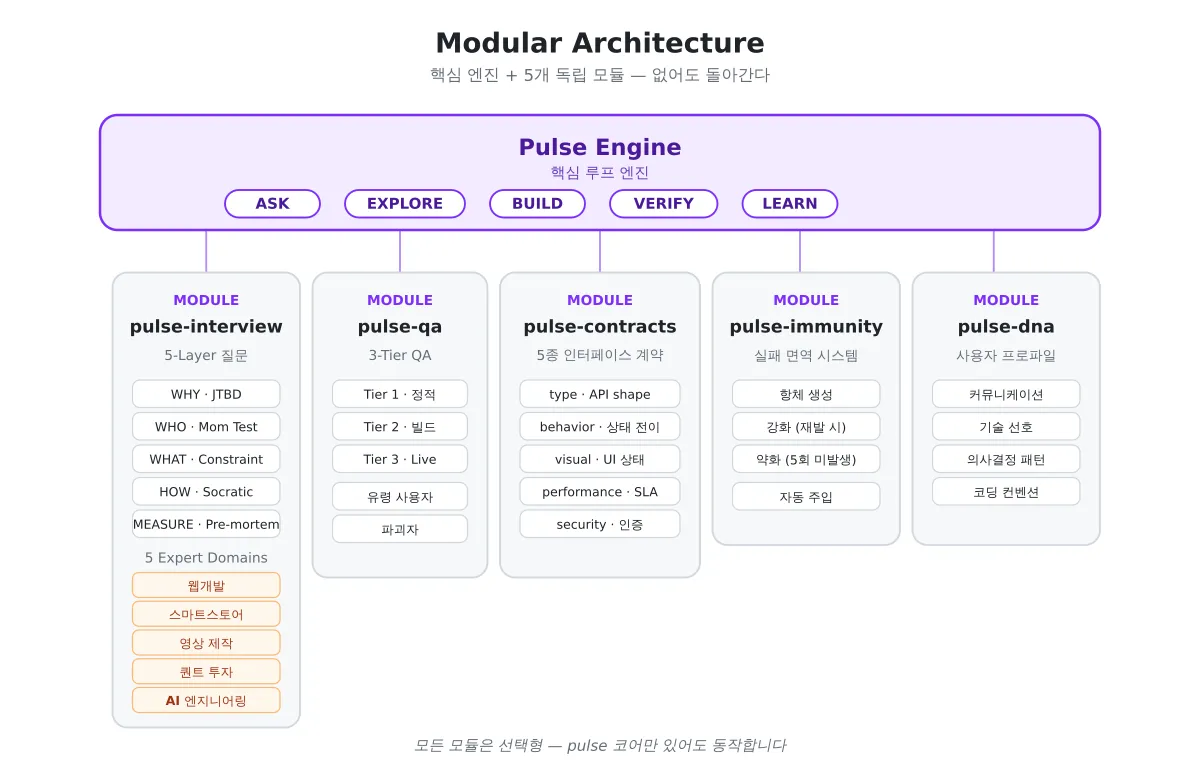
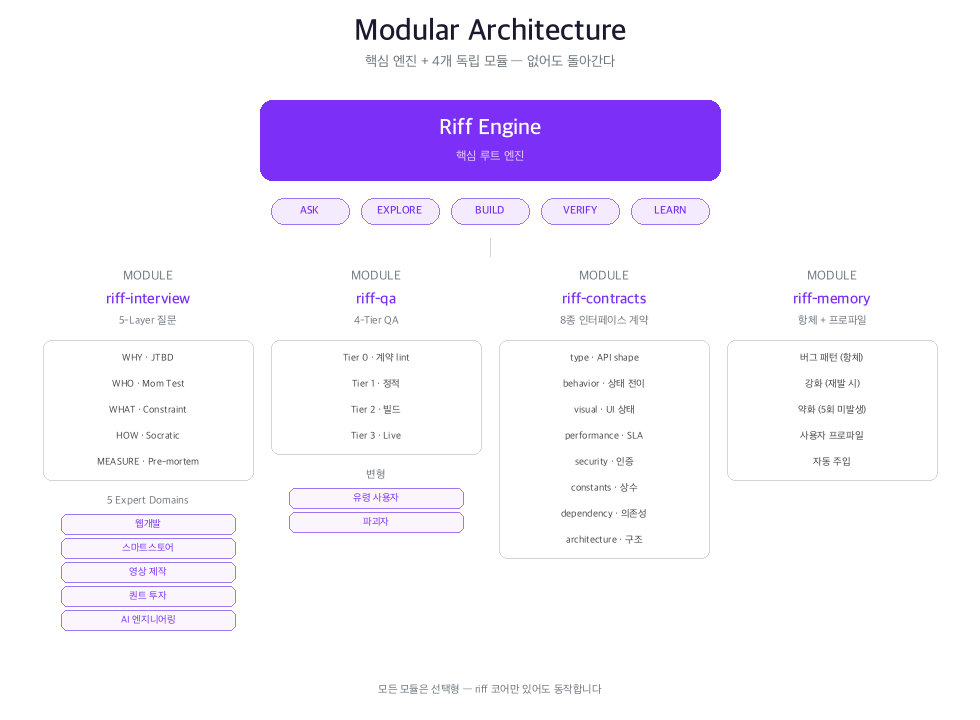
docs: pulse → riff 다이어그램 재생성 + README 배지 갱신 (v0.3.0)
이미지 내부에 박힌 "Pulse" 문구를 "Riff"로 교체하고 v0.2.0의 구조 변경
(immunity+dna → memory 통합) 및 contract/QA 확장을 반영.

- docs/riff_cycle.png: Pulse Cycle → Riff Cycle, LEARN "DNA 업데이트" → "프로파일 업데이트"
- docs/architecture.png: Pulse Engine → Riff Engine, 5 → 4 모듈
  (riff-interview / riff-qa / riff-contracts / riff-memory),
  3-Tier QA → 4-Tier QA, 5종 → 8종 contracts
- 파일 크기 460KB → 100KB
- README.md: Version 0.1.0 → 0.3.0, Modules 5_Skills → 4_Skills

diff --git a/README.md b/README.md
@@ -6,10 +6,10 @@
 </p>
 
 <p align="center">
-  <img src="https://img.shields.io/badge/Version-0.1.0-brightgreen.svg" alt="Version">
+  <img src="https://img.shields.io/badge/Version-0.3.0-brightgreen.svg" alt="Version">
   <a href="LICENSE"><img src="https://img.shields.io/badge/License-MIT-blue.svg" alt="License"></a>
   <img src="https://img.shields.io/badge/Claude_Code-Plugin-purple.svg" alt="Claude Code Plugin">
-  <img src="https://img.shields.io/badge/Modules-5_Skills-orange.svg" alt="5 Modules">
+  <img src="https://img.shields.io/badge/Modules-4_Skills-orange.svg" alt="4 Modules">
   <img src="https://img.shields.io/badge/Contracts-8_Types-blue.svg" alt="8 Contract Types">
   <img src="https://img.shields.io/badge/QA-Tier_0~3_+_Playwright-red.svg" alt="Tier 0-3 QA">
   <a href="https://github.com/joyuno/riff/stargazers"><img src="https://img.shields.io/github/stars/joyuno/riff?style=social" alt="GitHub Stars"></a>